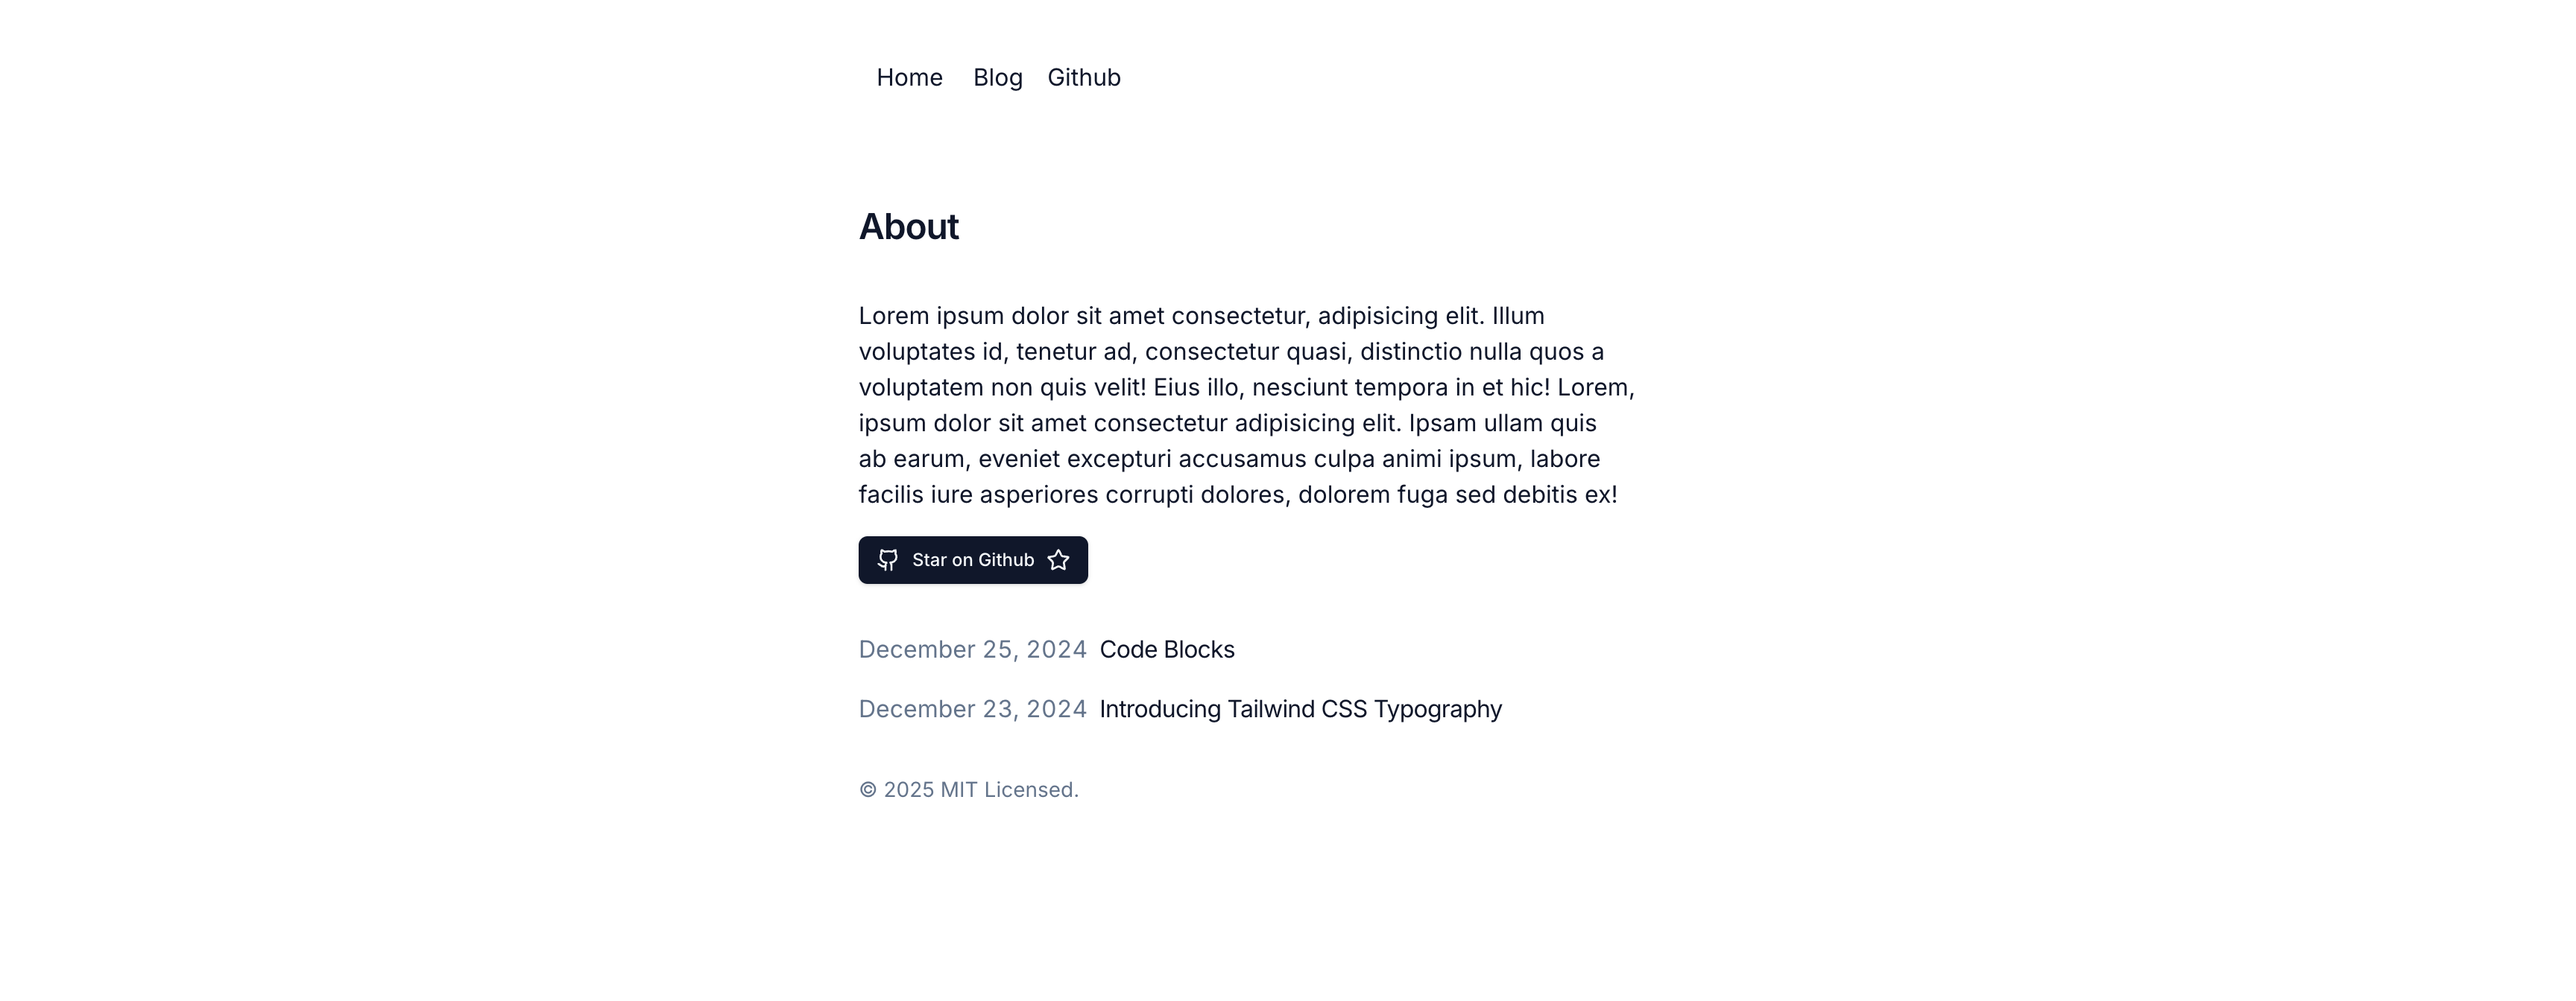
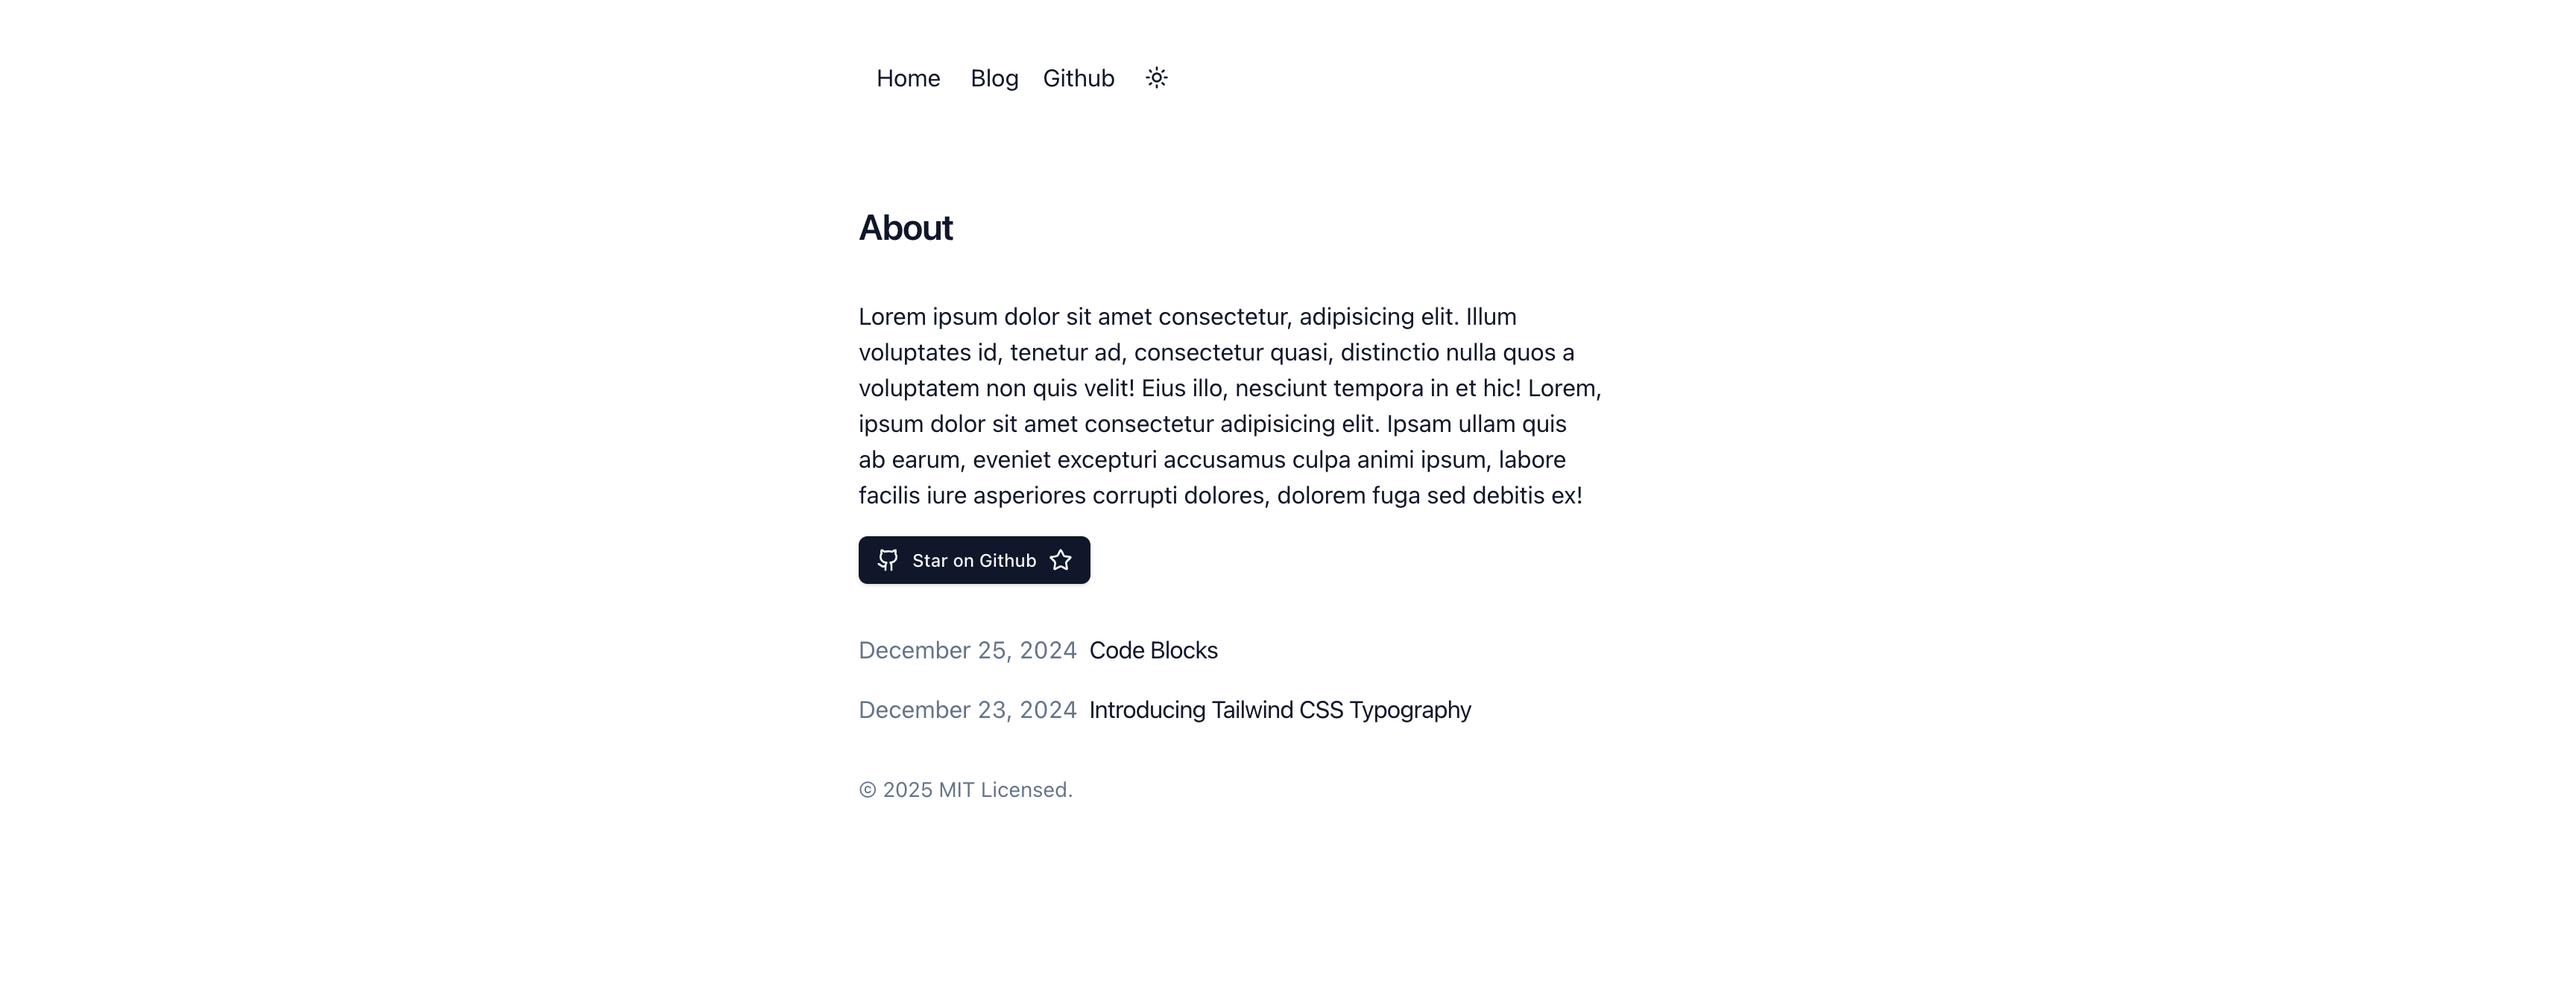
update Roadmap and add Features list in README

diff --git a/README.md b/README.md
@@ -8,6 +8,16 @@ A blog/portfolio starter project built with TanStack Start.
 
 https://tss-blog-starter.pages.dev/
 
+## Features
+
+- MDX and Markdown support
+- Syntax highlighting
+- Light/dark mode toggle
+- Tailwind CSS
+- Custom font
+- Dynamic OG images (coming soon)
+- Font optimisation (coming soon)
+
 ## Tech
 
 - [TanStack Start](https://tanstack.com/router/latest/docs/framework/react/guide/tanstack-start#tanstack-start)
@@ -50,7 +60,6 @@ Currently using cloudflare as the deployment target in `tss-blog-starter`. To de
 
 ## Roadmap
 
-- [ ] Theme
 - [ ] ES Lint & Prettier
 - [ ] Finish up `On this page` component
 - [ ] Maybe mobile nav using magic ui dock component
